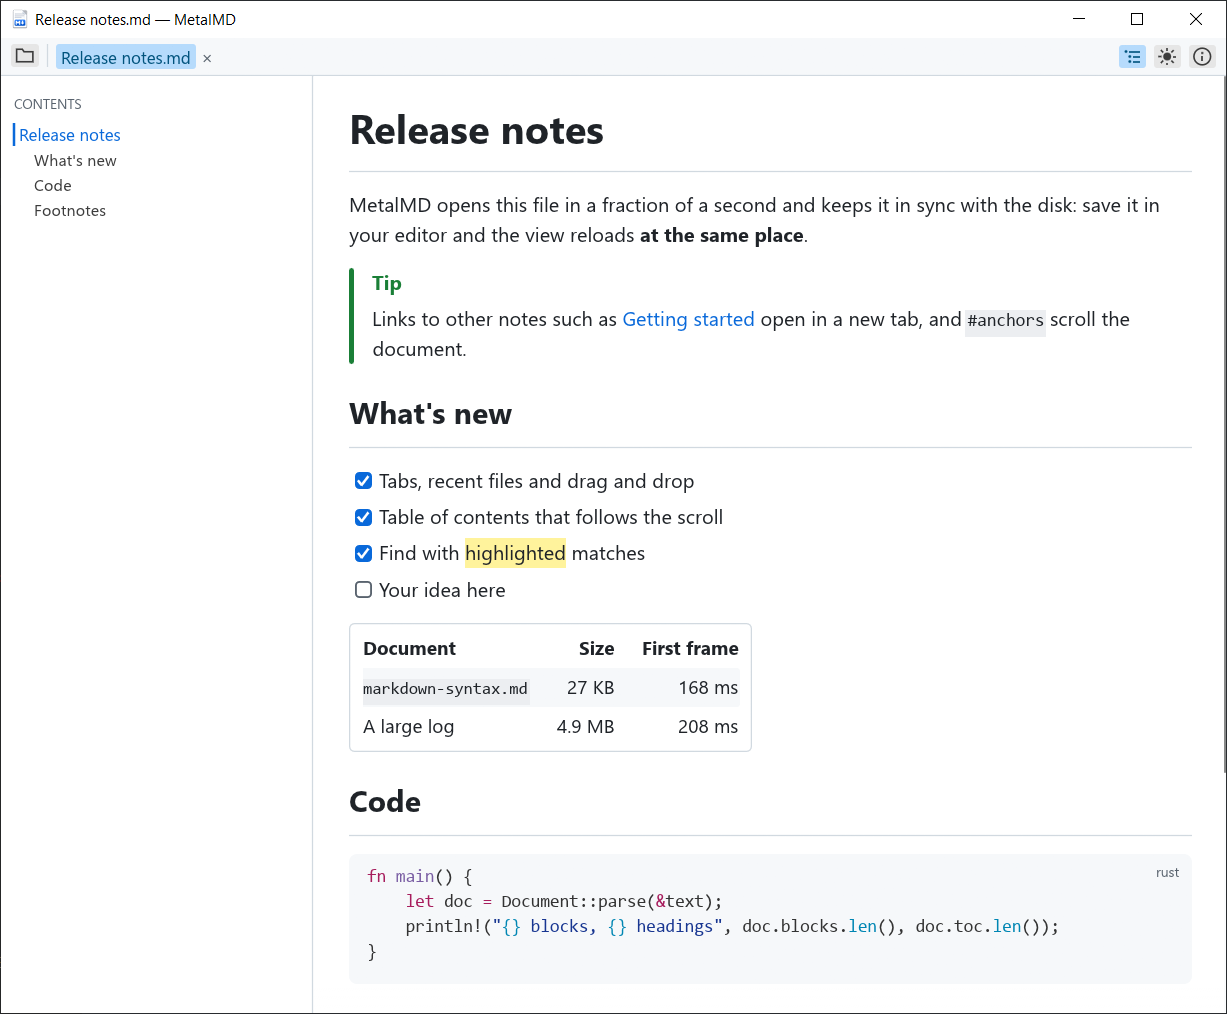
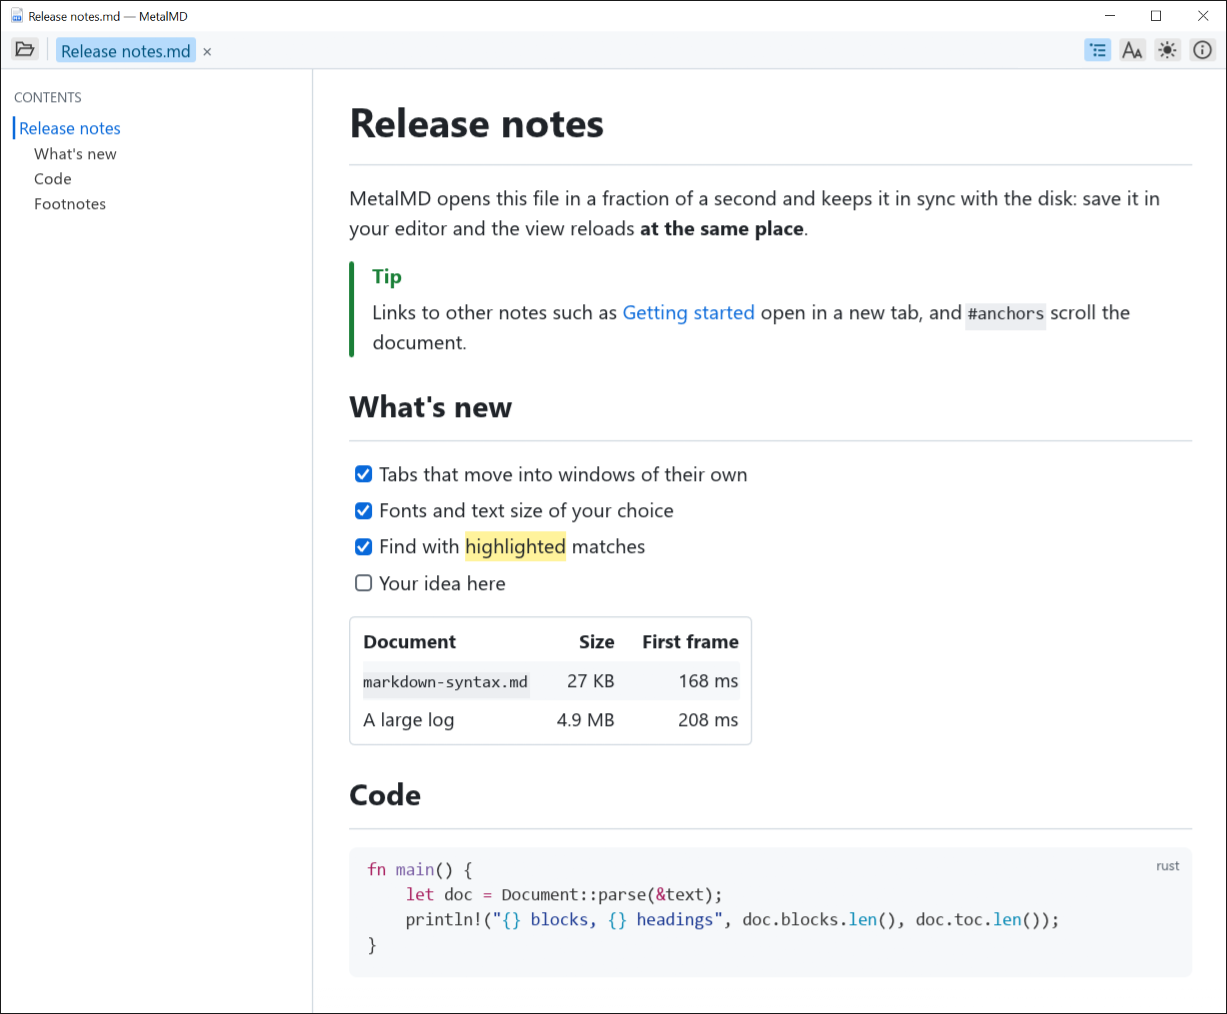
Version 0.2.0
- Cargo.toml: 0.2.0.
- The README screenshot taken again with the new toolbar (open folder,
  Aa), in the same window size and scale as before.
- A test that settings of 0.1.0 load with defaults for the new fields.

diff --git a/src/settings.rs b/src/settings.rs
@@ -277,4 +277,24 @@ mod tests {
         assert_eq!(partial.zoom, 1.0);
         assert_eq!(partial.toc_side, TocSide::Left);
     }
+
+    #[test]
+    fn settings_of_version_0_1_take_defaults_for_what_came_later() {
+        let old = r#"{
+            "theme": "dark",
+            "zoom": 1.1,
+            "toc_visible": false,
+            "toc_side": "right",
+            "language": "ru",
+            "recent": ["/notes/a.md"],
+            "window": {"x": 10.0, "y": 20.0, "width": 900.0, "height": 700.0, "maximized": false}
+        }"#;
+        let settings: Settings = serde_json::from_str(old).unwrap();
+        assert_eq!(settings.theme, ThemeSetting::Dark);
+        assert_eq!(settings.toc_side, TocSide::Right);
+        assert_eq!(settings.recent, [PathBuf::from("/notes/a.md")]);
+        assert_eq!(settings.font, None);
+        assert_eq!(settings.mono_font, None);
+        assert_eq!(settings.text_size, crate::style::DEFAULT_BODY_SIZE);
+    }
 }

diff --git a/README.ru.md b/README.ru.md
@@ -19,7 +19,7 @@ MetalMD показывает Markdown-документ примерно чере
 
 ![MetalMD показывает документ: слева оглавление, справа выноска, список задач, таблица и блок кода с подсветкой](images/screenshot.png)
 
-*Снимок экрана версии 0.1.0.*
+*Снимок экрана версии 0.2.0.*
 
 ## Возможности
 
@@ -214,8 +214,8 @@ python tools/make_release.py --install    # затем тихая установ
 Релизы на GitHub собирает workflow **Release** (`.github/workflows/release.yml`). Обновите версию в `Cargo.toml`, закоммитьте её и отправьте тег с той же версией. Workflow опубликует релиз с инсталлятором и портативным архивом:
 
 ```
-git tag v0.1.0
-git push origin v0.1.0
+git tag v0.2.0
+git push origin v0.2.0
 ```
 
 Ручной запуск workflow (Actions → Release → Run workflow) только собирает файлы и прикладывает их к запуску, без релиза.

diff --git a/README.md b/README.md
@@ -19,7 +19,7 @@ MetalMD is a read-only Markdown viewer that shows a document about 0.2 s after y
 
 ![MetalMD showing a document with a table of contents on the left, an alert, a task list, a table and a highlighted code block](images/screenshot.png)
 
-*Screenshot of version 0.1.0.*
+*Screenshot of version 0.2.0.*
 
 ## Features
 
@@ -214,8 +214,8 @@ The script writes the files to `dist` and takes the version from `Cargo.toml`. L
 The **Release** workflow (`.github/workflows/release.yml`) builds the releases on GitHub. Update the version in `Cargo.toml`, commit it, and push a matching tag. The workflow then publishes a release with the installer and the portable archive:
 
 ```
-git tag v0.1.0
-git push origin v0.1.0
+git tag v0.2.0
+git push origin v0.2.0
 ```
 
 Running the workflow manually (Actions → Release → Run workflow) builds the files and attaches them to the run, without making a release.
